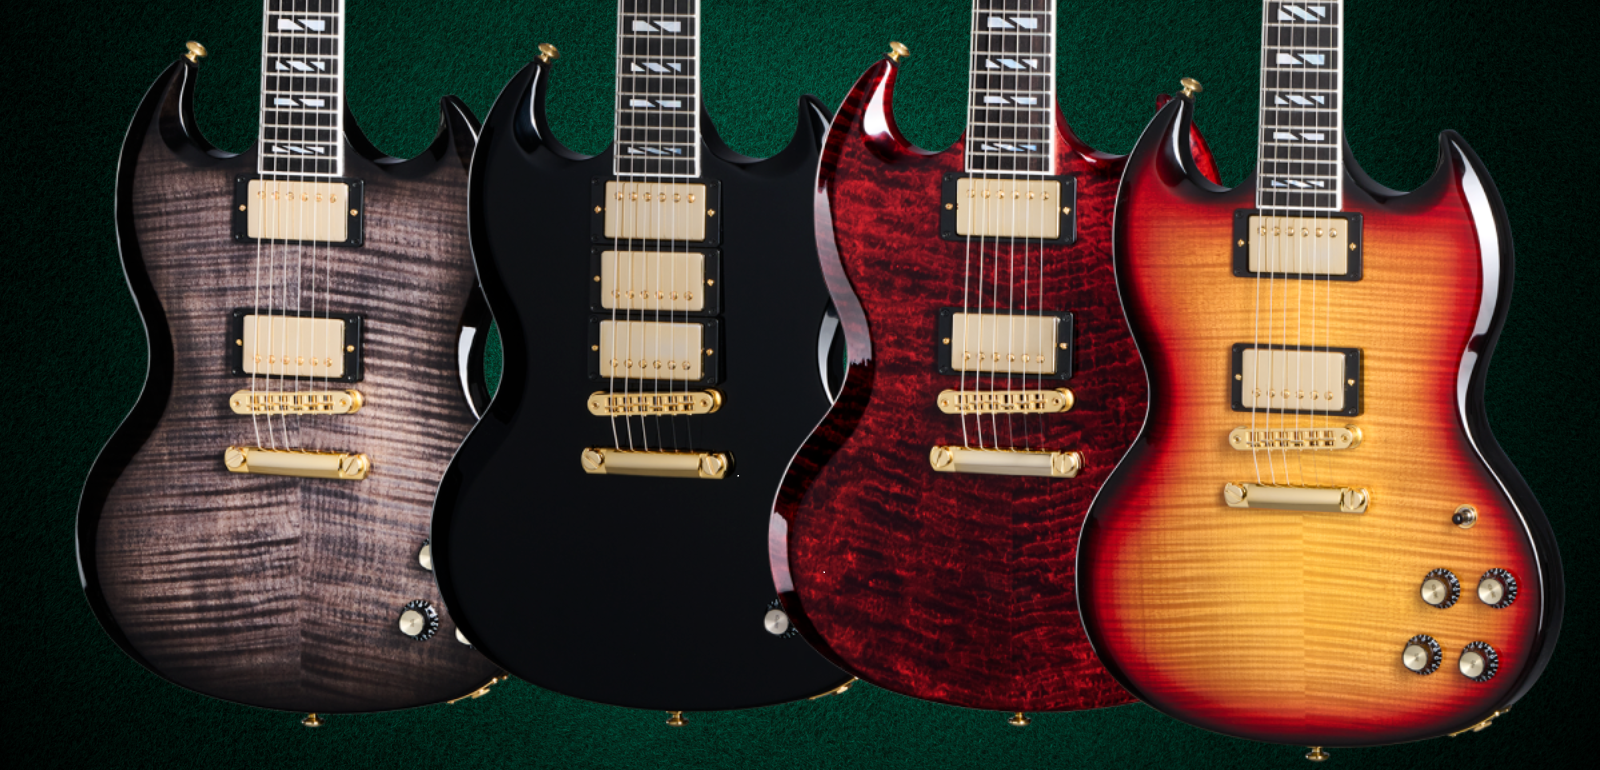
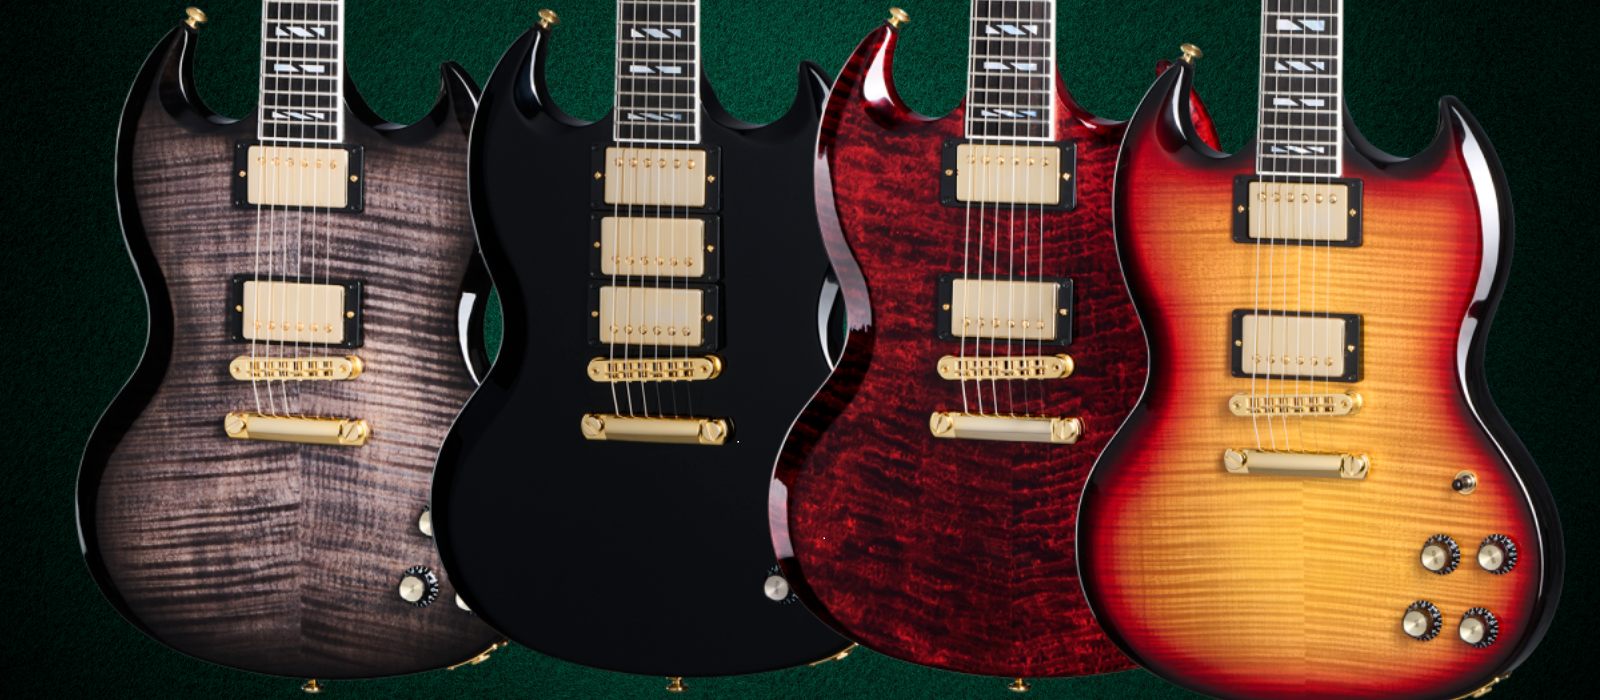
-mini correccion carrusel img

diff --git a/public/css/styles.css b/public/css/styles.css
@@ -96,7 +96,7 @@ body {
 .banner {
     position: relative;
     width: 100%;
-    height: 900px;
+    height: 573px;
     background-color: #000;
 }
 
@@ -107,7 +107,7 @@ body {
 
 .carrusel img {
     width: 100%;
-    height: 100%;
+    height: auto;
     object-fit: cover;
     transition: opacity 1s ease-in-out;
 }
